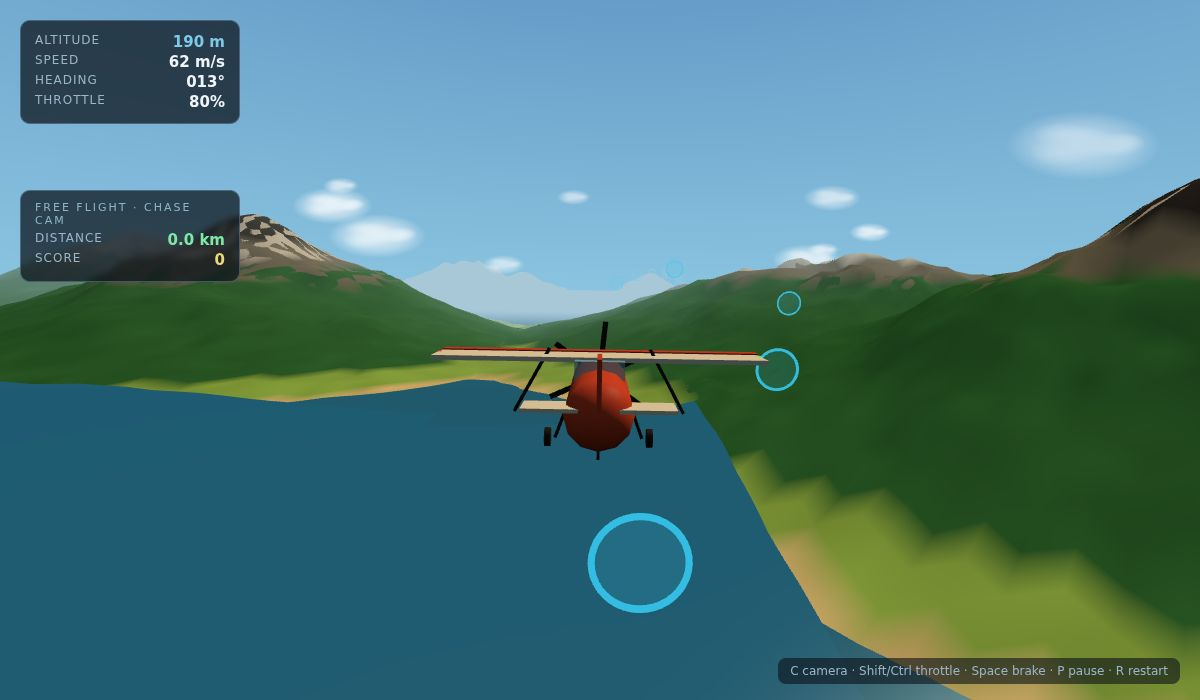
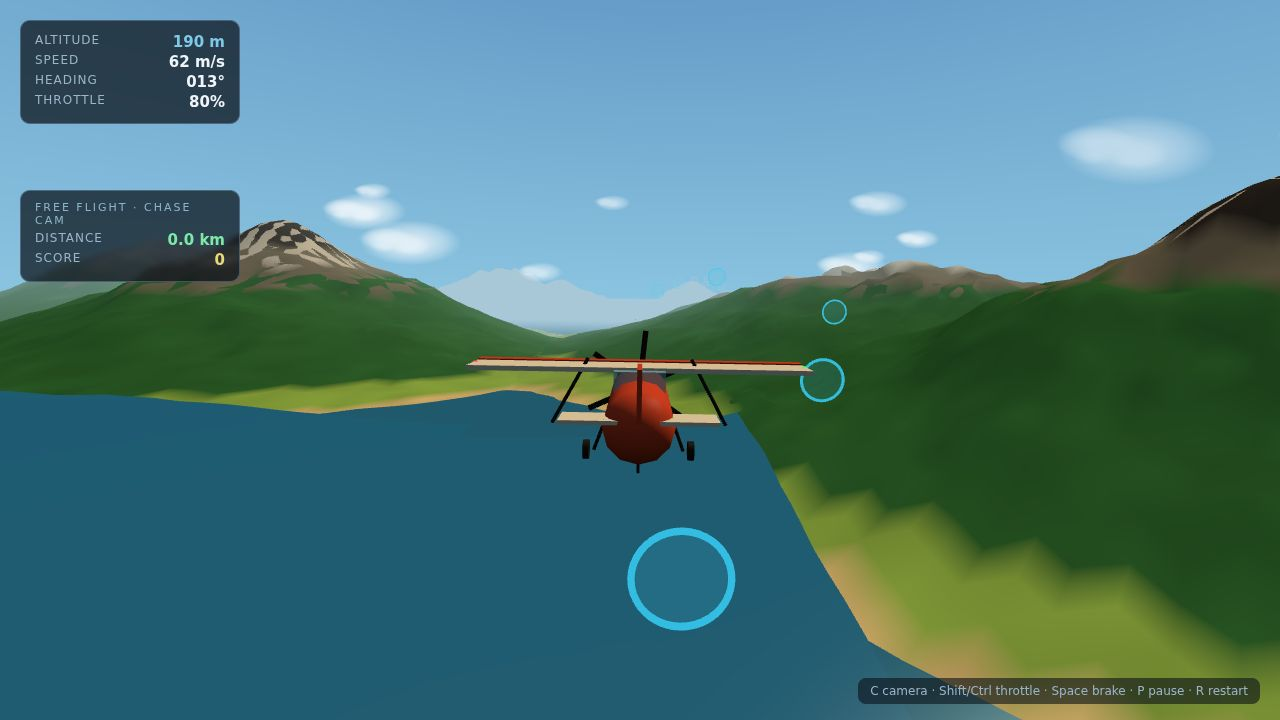
Add vegetation, birds and wingtip trails

diff --git a/game/src/vegetation.js b/game/src/vegetation.js
@@ -1,0 +1,132 @@
+// SKYBOUND — vegetation: instanced palms and rock outcrops scattered over the islands.
+// Everything is one draw call per instance type, so the archipelago gains detail without
+// costing frame time. Placement is seeded so screenshots stay reproducible.
+import * as THREE from 'three';
+import { ISLANDS, groundHeight } from './terrain.js';
+import { makeRng } from './random.js';
+
+// A palm is a bent trunk plus a crown of drooping fronds, merged into one geometry.
+function palmGeometry() {
+  const trunkSegments = 7;
+  const trunkHeight = 9.5;
+  const lean = 1.8;
+  const parts = [];
+  for (let i = 0; i < trunkSegments; i++) {
+    const t = i / trunkSegments;
+    const radius = 0.42 * (1 - t * 0.45);
+    const seg = new THREE.CylinderGeometry(radius * 0.86, radius, trunkHeight / trunkSegments, 5);
+    const bend = Math.pow(t, 1.6) * lean;
+    seg.translate(bend, trunkHeight / trunkSegments * (i + 0.5), 0);
+    seg.rotateZ(-Math.pow(t, 1.4) * 0.28);
+    parts.push(seg);
+  }
+  // Fronds: tapered cones flattened into leaf shapes.
+  const fronds = 9;
+  for (let f = 0; f < fronds; f++) {
+    const angle = (f / fronds) * Math.PI * 2;
+    const droop = 0.5 + (f % 3) * 0.12;
+    const frond = new THREE.ConeGeometry(0.85, 6.4, 4, 1, false);
+    frond.scale(1, 1, 0.16);
+    frond.rotateX(Math.PI / 2);
+    frond.rotateZ(droop);
+    frond.translate(0, 0, -3.1);
+    frond.rotateY(angle);
+    frond.translate(lean * 0.92, trunkHeight - 0.4, 0);
+    parts.push(frond);
+  }
+  return mergeGeometries(parts);
+}
+
+// Minimal geometry merge (position + normal only) to avoid pulling in an addon.
+function mergeGeometries(list) {
+  let vertexCount = 0;
+  for (const g of list) vertexCount += g.attributes.position.count;
+  const pos = new Float32Array(vertexCount * 3);
+  const nrm = new Float32Array(vertexCount * 3);
+  let offset = 0;
+  for (const g of list) {
+    const p = g.attributes.position, n = g.attributes.normal;
+    pos.set(p.array, offset * 3);
+    nrm.set(n.array, offset * 3);
+    offset += p.count;
+  }
+  const out = new THREE.BufferGeometry();
+  out.setAttribute('position', new THREE.BufferAttribute(pos, 3));
+  out.setAttribute('normal', new THREE.BufferAttribute(nrm, 3));
+  out.computeBoundingSphere();
+  return out;
+}
+
+// A rock is two overlapping low-poly chunks, dark and matte.
+function rockGeometry() {
+  const a = new THREE.DodecahedronGeometry(2.4, 0);
+  a.scale(1, 0.62, 1.2);
+  const b = new THREE.DodecahedronGeometry(1.5, 0);
+  b.scale(1.1, 0.5, 0.9);
+  b.translate(1.6, 0.5, -0.4);
+  return mergeGeometries([a, b]);
+}
+
+export function buildVegetation(scene, seed) {
+  const rng = makeRng(seed + 313);
+  const palms = [];
+  const rocks = [];
+
+  for (const is of ISLANDS) {
+    const isVolcano = is.volcano;
+    // Palms hug the shoreline; rocks climb the slopes.
+    for (let i = 0; i < 46; i++) {
+      const angle = rng() * Math.PI * 2;
+      const dist = is.radius * (0.35 + rng() * 0.7);
+      const x = is.x + Math.cos(angle) * dist;
+      const z = is.z + Math.sin(angle) * dist;
+      const h = groundHeight(x, z);
+      if (h < 2.5) continue;                 // underwater or beach wet sand
+      if (h > 68) continue;                  // too far up the mountain
+      if (isVolcano && h > 40) continue;     // volcanoes above the treeline
+      palms.push({ x, y: h, z, rot: rng() * Math.PI * 2, scale: 1.1 + rng() * 0.8 });
+    }
+    for (let i = 0; i < 10; i++) {
+      const angle = rng() * Math.PI * 2;
+      const dist = is.radius * (0.2 + rng() * 0.6);
+      const x = is.x + Math.cos(angle) * dist;
+      const z = is.z + Math.sin(angle) * dist;
+      const h = groundHeight(x, z);
+      if (h < 8 || h > 60) continue;
+      rocks.push({ x, y: h - 0.4, z, rot: rng() * Math.PI * 2, scale: 0.7 + rng() * 1.5 });
+    }
+  }
+
+  const group = new THREE.Group();
+
+  const palmMat = new THREE.MeshLambertMaterial({ color: 0x4a7d3a });
+  const palmMesh = new THREE.InstancedMesh(palmGeometry(), palmMat, Math.max(1, palms.length));
+  const rockMat = new THREE.MeshLambertMaterial({ color: 0x6d675c });
+  const rockMesh = new THREE.InstancedMesh(rockGeometry(), rockMat, Math.max(1, rocks.length));
+
+  const m = new THREE.Matrix4();
+  const q = new THREE.Quaternion();
+  const v = new THREE.Vector3();
+  const s = new THREE.Vector3();
+  palms.forEach((p, i) => {
+    q.setFromAxisAngle(new THREE.Vector3(0, 1, 0), p.rot);
+    v.set(p.x, p.y, p.z);
+    s.setScalar(p.scale);
+    m.compose(v, q, s);
+    palmMesh.setMatrixAt(i, m);
+  });
+  rocks.forEach((p, i) => {
+    q.setFromAxisAngle(new THREE.Vector3(0, 1, 0), p.rot);
+    v.set(p.x, p.y, p.z);
+    s.setScalar(p.scale);
+    m.compose(v, q, s);
+    rockMesh.setMatrixAt(i, m);
+  });
+  palmMesh.instanceMatrix.needsUpdate = true;
+  rockMesh.instanceMatrix.needsUpdate = true;
+  palmMesh.frustumCulled = false;
+  rockMesh.frustumCulled = false;
+  group.add(palmMesh, rockMesh);
+  scene.add(group);
+  return group;
+}

diff --git a/game/src/birds.js b/game/src/birds.js
@@ -1,0 +1,69 @@
+// SKYBOUND — birds: flocks of gulls wheeling over the sea, pure ambience.
+// Each bird is a tiny two-triangle chevron; a flock follows a slow circular path
+// with bobbing and wing-beat flutter. Cheap, atmospheric, and screenshot-friendly.
+import * as THREE from 'three';
+import { makeRng } from './random.js';
+
+function birdGeometry() {
+  // Two swept wings as a single chevron shape.
+  const g = new THREE.BufferGeometry();
+  const w = 1.6, d = 0.55, h = 0.18;
+  const verts = new Float32Array([
+    // left wing
+    -w, 0, d,   0, 0, -d,   0, h, 0,
+    // right wing
+    0, h, 0,    0, 0, -d,   w, 0, d,
+  ]);
+  g.setAttribute('position', new THREE.BufferAttribute(verts, 3));
+  g.computeVertexNormals();
+  return g;
+}
+
+export function buildBirds(scene, seed, flockCount = 5) {
+  const rng = makeRng(seed + 777);
+  const geo = birdGeometry();
+  const mat = new THREE.MeshBasicMaterial({ color: 0xf4f6f8, side: THREE.DoubleSide });
+  const flocks = [];
+  for (let f = 0; f < flockCount; f++) {
+    const group = new THREE.Group();
+    const count = 5 + Math.floor(rng() * 8);
+    const members = [];
+    for (let i = 0; i < count; i++) {
+      const bird = new THREE.Mesh(geo, mat);
+      bird.scale.setScalar(1.6 + rng() * 1.4);
+      group.add(bird);
+      members.push({
+        mesh: bird,
+        angle: rng() * Math.PI * 2,
+        radius: 14 + rng() * 26,
+        height: rng() * 10,
+        speed: 0.5 + rng() * 0.5,
+        flap: rng() * Math.PI * 2,
+      });
+    }
+    const centre = new THREE.Vector3(
+      (rng() - 0.5) * 4400,
+      130 + rng() * 260,
+      (rng() - 0.5) * 4400);
+    group.position.copy(centre);
+    scene.add(group);
+    flocks.push({ group, members, drift: 0.02 + rng() * 0.03 });
+  }
+  return {
+    flocks,
+    update(time) {
+      for (const flock of flocks) {
+        flock.group.rotation.y += flock.drift * 0.016;
+        for (const b of flock.members) {
+          b.angle += b.speed * 0.016;
+          const x = Math.cos(b.angle) * b.radius;
+          const z = Math.sin(b.angle) * b.radius;
+          b.mesh.position.set(x, b.height + Math.sin(time * 1.3 + b.flap) * 2.4, z);
+          b.mesh.rotation.y = -b.angle;
+          // Wing-beat flutter.
+          b.mesh.rotation.z = Math.sin(time * 9 + b.flap) * 0.28;
+        }
+      }
+    },
+  };
+}

diff --git a/game/src/trails.js b/game/src/trails.js
@@ -1,0 +1,55 @@
+// SKYBOUND — trails: the wingtip vapour trails the aircraft leaves behind.
+// Two ribbons of fading quads spawn from the wingtips while flying fast; they stretch,
+// fade and recycle. A small touch that sells speed in both screenshots and flight.
+import * as THREE from 'three';
+
+const MAX_PER_TIP = 40;
+
+function makeTrail() {
+  const geo = new THREE.PlaneGeometry(0.16, 2.4);
+  const mat = new THREE.MeshBasicMaterial({
+    color: 0xffffff, transparent: true, opacity: 0.5, depthWrite: false,
+  });
+  const puffs = [];
+  for (let i = 0; i < MAX_PER_TIP; i++) {
+    const mesh = new THREE.Mesh(geo, mat.clone());
+    mesh.visible = false;
+    puffs.push({ mesh, life: 0 });
+  }
+  return { puffs, next: 0, emitClock: 0 };
+}
+
+export class TrailSystem {
+  constructor(scene) {
+    this.scene = scene;
+    this.left = makeTrail();
+    this.right = makeTrail();
+  }
+
+  // worldTips: [{x,y,z}, {x,y,z}] current wingtip positions; fast: aircraft speed factor.
+  update(dt, worldTips, speed) {
+    for (const [tip, trail] of [[worldTips[0], this.left], [worldTips[1], this.right]]) {
+      trail.emitClock += dt;
+      const interval = Math.max(0.03, 0.12 - speed * 0.0008);
+      if (trail.emitClock > interval && speed > 48) {
+        trail.emitClock = 0;
+        const puff = trail.puffs[trail.next];
+        trail.next = (trail.next + 1) % MAX_PER_TIP;
+        puff.mesh.visible = true;
+        puff.mesh.position.set(tip.x, tip.y, tip.z);
+        puff.mesh.scale.set(1, 1, 1);
+        (puff.mesh.material).opacity = 0.5;
+        puff.life = 1.6;
+      }
+      for (const puff of trail.puffs) {
+        if (puff.life <= 0) continue;
+        puff.life -= dt;
+        if (puff.life <= 0) { puff.mesh.visible = false; continue; }
+        const t = puff.life / 1.6;
+        puff.mesh.material.opacity = 0.5 * t;
+        puff.mesh.scale.setScalar(1 + (1 - t) * 2.2);
+        puff.mesh.position.y += dt * 0.6;
+      }
+    }
+  }
+}

diff --git a/game/src/main.js b/game/src/main.js
@@ -13,6 +13,9 @@ import { buildRings, Mission } from './missions.js';
 import { Hud } from './hud.js';
 import { sfx } from './audio.js';
 import { Input } from './input.js';
+import { buildVegetation } from './vegetation.js';
+import { buildBirds } from './birds.js';
+import { TrailSystem } from './trails.js';
 
 const params = new URLSearchParams(location.search);
 const shotMode = params.get('shot');
@@ -36,6 +39,9 @@ buildEnvironment(scene, seed);
 buildTerrainMeshes(scene, seed);
 buildRunway(scene, CONFIG.runway);
 const ocean = buildOcean(scene);
+buildVegetation(scene, seed);
+const birds = buildBirds(scene, seed);
+const trails = new TrailSystem(scene);
 const aircraft = buildAircraft();
 scene.add(aircraft);
 const rig = new CameraRig(camera);
@@ -84,6 +90,7 @@ function endGame() {
 function update(dt) {
   time += dt;
   updateOcean(ocean, time);
+  birds.update(time);
   if (state !== 'play') return;
   if (input.pausePressed()) { paused = !paused; if (paused) hud.overlay('PAUSED', 'The islands wait.', 'P to resume · R restart · ESC resume'); else hud.clearOverlay(); }
   if (paused) return;
@@ -112,6 +119,12 @@ function draw() {
     aircraft.position.copy(flight.pos);
     aircraft.quaternion.copy(flight.quat);
     aircraft.userData.prop.rotation.z += flight.throttle * dt() * 60 + 8;
+    // Wingtip vapour trails while flying fast.
+    if (flight.speed > 48) {
+      const l = new THREE.Vector3(-5.7, 1.35, -0.6).applyQuaternion(flight.quat).add(flight.pos);
+      const r = new THREE.Vector3(5.7, 1.35, -0.6).applyQuaternion(flight.quat).add(flight.pos);
+      trails.update(0.016, [l, r], flight.speed);
+    }
     rig.update(0.016, flight, aircraft);
     if (rig.mode === 'cockpit') rig.drawPanel(flight);
     hud.draw(flight, mission, mode, rig.mode);
